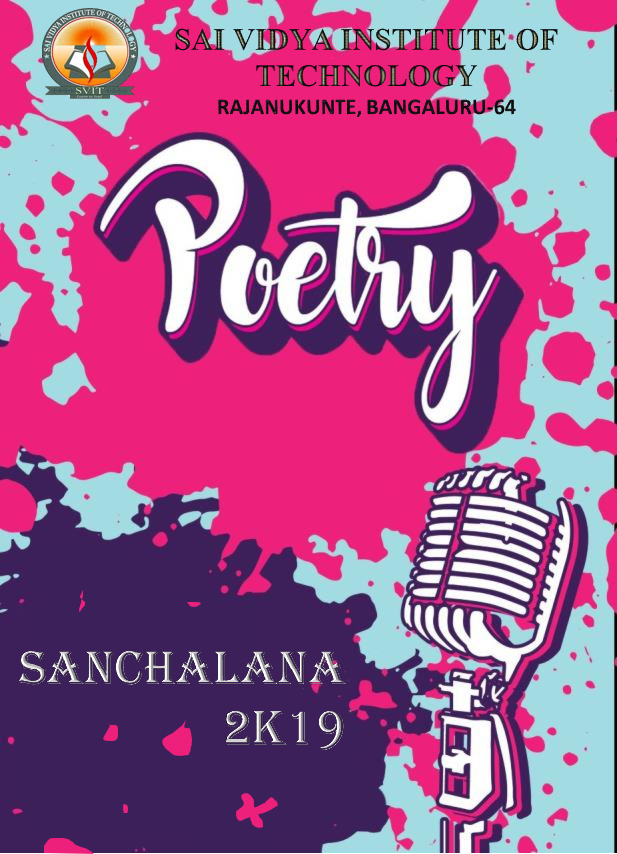
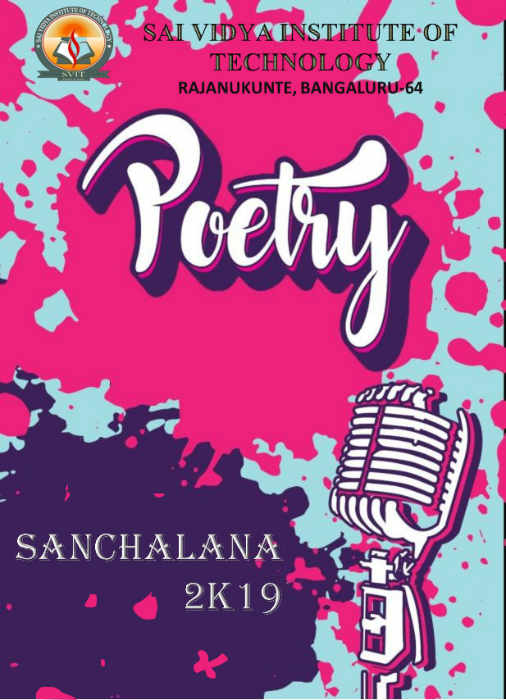
poetry

diff --git a/poetry.html b/poetry.html
@@ -25,7 +25,7 @@ body, html {
 .bgimg{
  
 
-  background-image:url("poetry.jpg");
+  background-image:url("pic68.jpg");
   
   /* Add the blur effect */
  opacity: 0.7;
